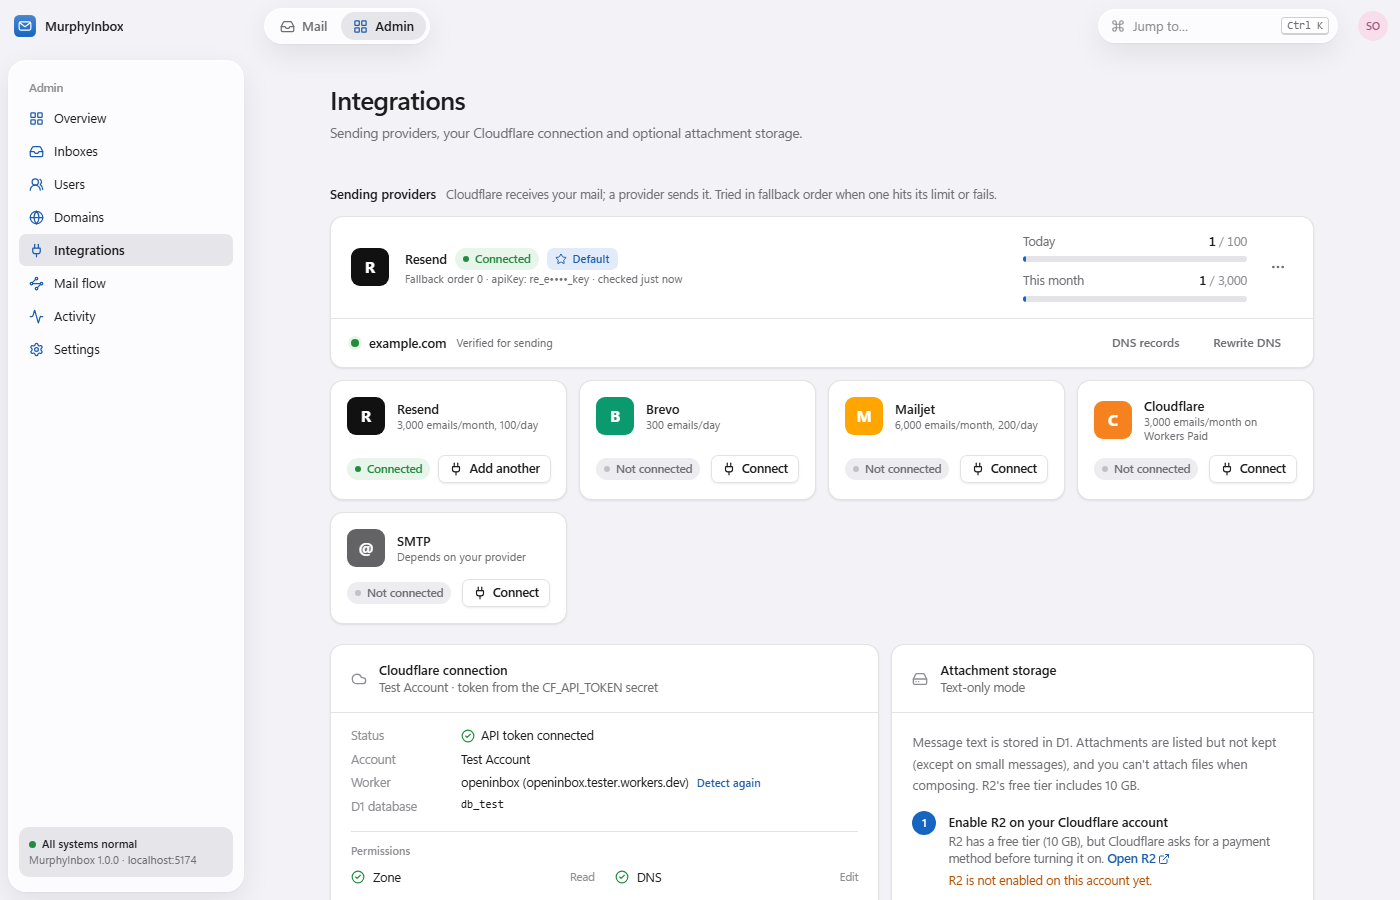
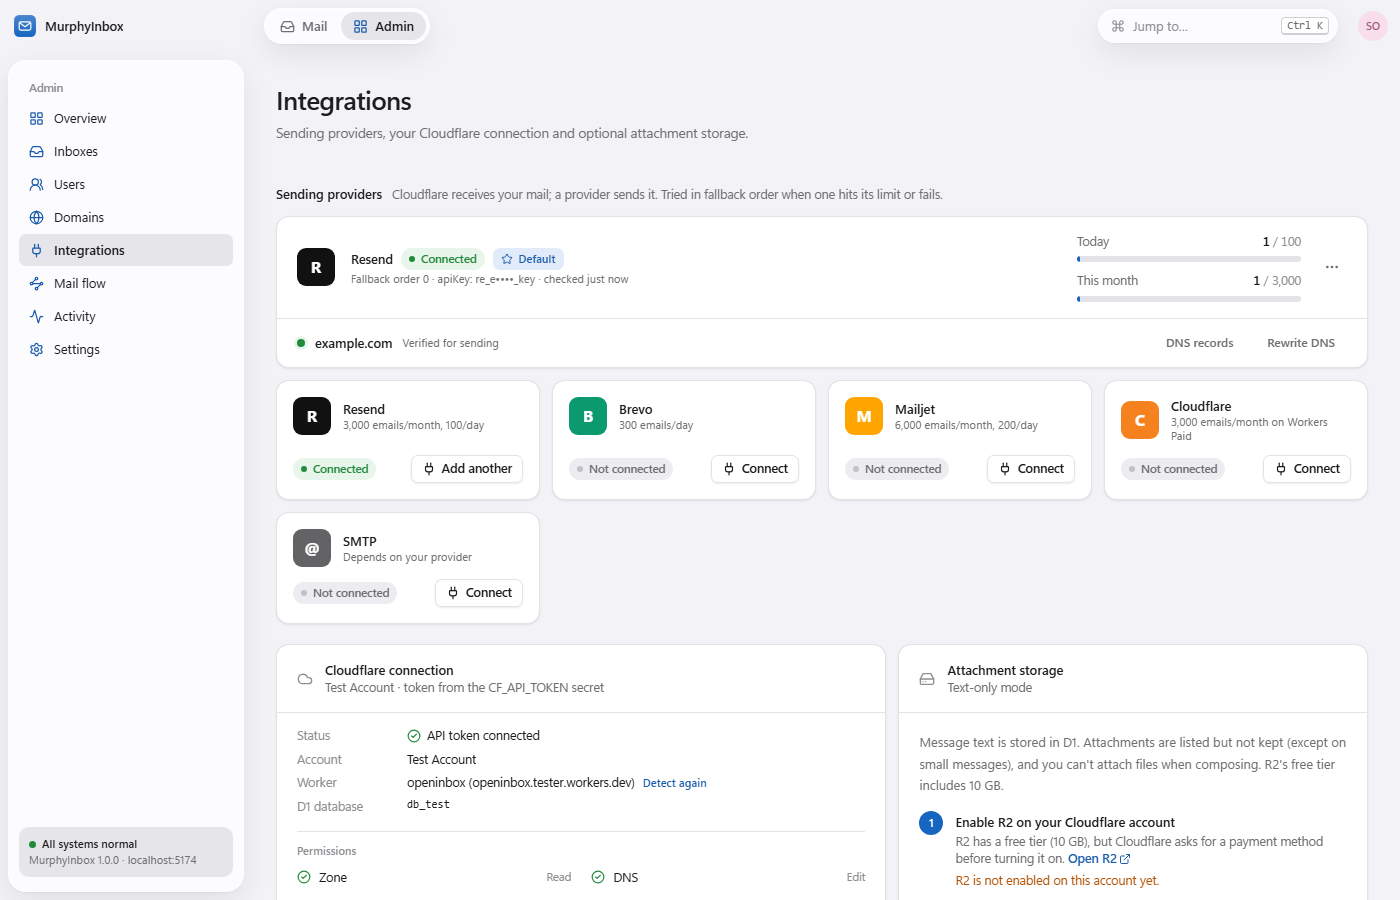
Let page content fill the available width

diff --git a/src/web/pages/mail/ThreadView.tsx b/src/web/pages/mail/ThreadView.tsx
@@ -306,7 +306,7 @@ export function ThreadView({
       </div>
 
       <div className="scroll-thin min-h-0 flex-1 overflow-y-auto">
-        <div className="mx-auto flex max-w-[860px] flex-col gap-3 px-3.5 pt-[18px] pb-10 md:px-9 md:pt-7">
+        <div className="flex w-full flex-col gap-3 px-3.5 pt-[18px] pb-10 md:px-9 md:pt-7">
           <div className="px-1 pb-2 md:px-0.5">
             <h1 className="text-xl leading-[1.3] font-semibold tracking-[-0.02em] break-words text-pretty md:text-[22px]">{t.subject || '(no subject)'}</h1>
             {(t.labels.length > 0 || t.folder === 'spam' || t.snoozedUntil || (mailbox && mailboxes.length > 1)) && (

diff --git a/src/web/pages/settings/SettingsPage.tsx b/src/web/pages/settings/SettingsPage.tsx
@@ -50,7 +50,7 @@ export default function SettingsPage() {
         </nav>
       </aside>
       <div className="scroll-thin min-h-0 flex-1 overflow-y-auto">
-        <div className="mx-auto max-w-3xl px-4 pt-6 pb-12 sm:px-8 lg:pt-8">
+        <div className="w-full px-4 pt-6 pb-12 sm:px-6 lg:px-8 lg:pt-8">
           <Routes>
             {ACCOUNT.map((a) => (
               <Route key={a.to} path={a.to} element={a.element} />

diff --git a/src/web/pages/admin/AdminRoutes.tsx b/src/web/pages/admin/AdminRoutes.tsx
@@ -64,7 +64,7 @@ function AdminLayout() {
         </div>
       </aside>
       <div className="scroll-thin min-h-0 flex-1 overflow-y-auto">
-        <div className="mx-auto max-w-[1080px] px-4 pt-6 pb-12 sm:px-8 lg:px-12 lg:pt-8">
+        <div className="w-full px-4 pt-6 pb-12 sm:px-6 lg:px-8 lg:pt-8">
           <Outlet />
         </div>
       </div>
